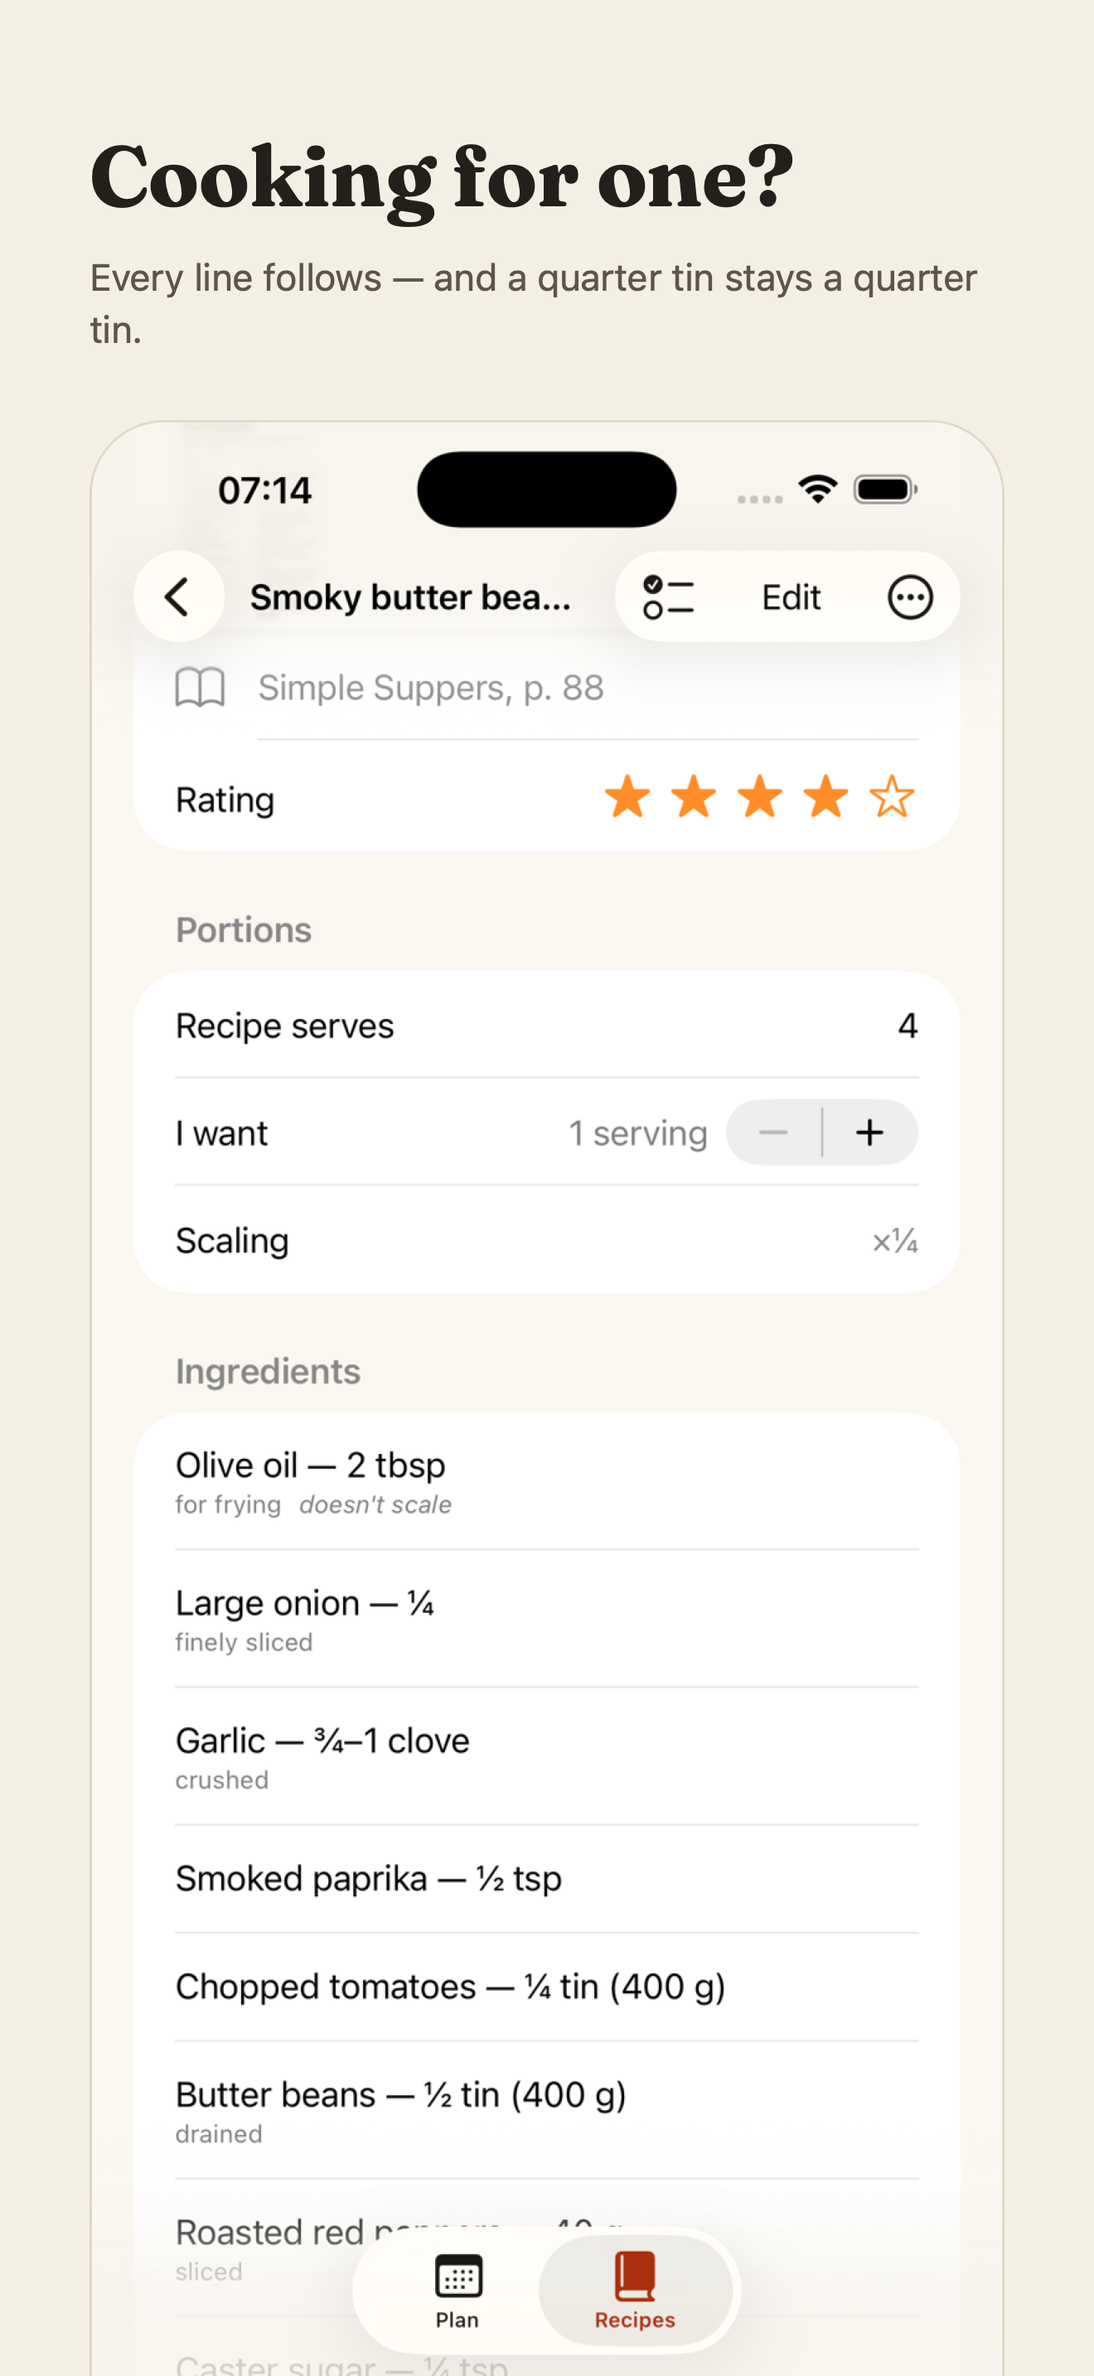
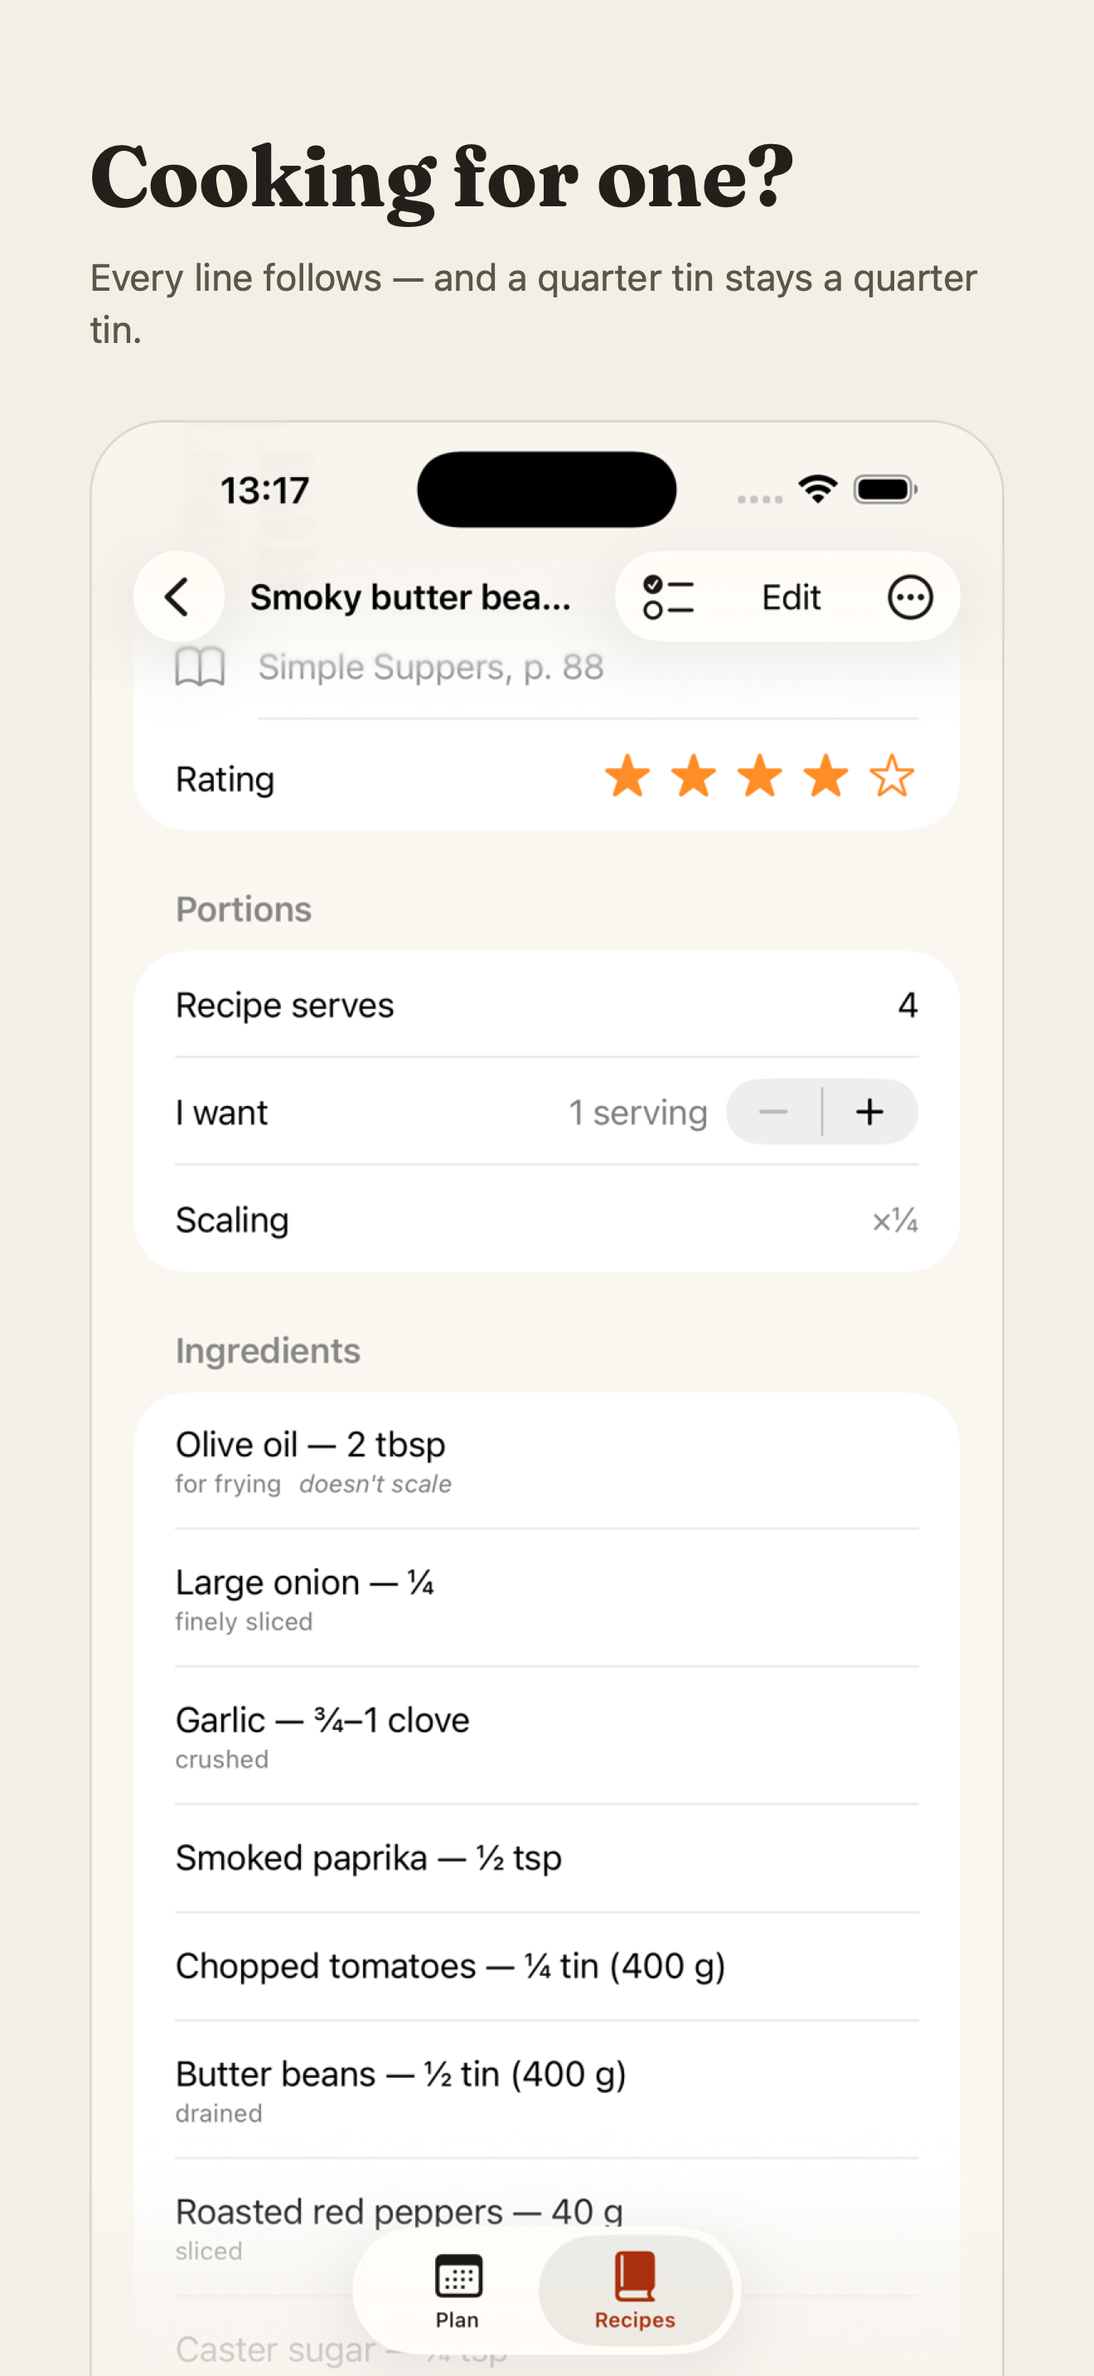
docs: the listing says photograph the page, and a nomination that fits
The description still opened "Photograph the ingredient list on the page",
which the app stopped saying this morning.

The featuring nomination could not have been submitted at all. Apple's form
is a 60-character name, a 1,000-character description and a 500-character
Helpful Details box; this held about 3,150 characters of essays under
headings Apple does not have. Rewritten to fit, with the structured fields
tabulated, and appstore-counts.py now counts them — it splits on ### as well
as ##, so nothing in the nomination goes unchecked again. Apple's documented
lead time is three weeks, not the two this claimed.

All nine screenshots reshot on the iPhone 17 Pro Max and iPad Pro 13-inch.
Frame 1 was stale twice over: the old free-scan limits and the capture help
text reversed today. Three frames were recomposed to show the claim rather
than sit above it — the extracted rows, the quarter tin, the merged lines.

Still missing a household frame; a simulator cannot host one.

diff --git a/docs/appstore-counts.py b/docs/appstore-counts.py
@@ -21,6 +21,11 @@ LIMITS = {
     "Keywords": 100,
     "Description": 4000,
     "What's New": 4000,
+    # The featuring nomination's own fields, which are `###` headings under "## Featuring nomination".
+    # Apple's limits, from the nominations template (checked 2026-09-29).
+    "Nomination name": 60,
+    "Nomination description": 1000,
+    "Helpful details": 500,
 }
 
 # The in-app purchase table's columns, by header, -> limit. **Read from the document**, not copied here: these
@@ -34,8 +39,13 @@ IAP_COLUMNS = {
 
 
 def fields(text):
-    """Yield (heading, first fenced block) for each '## Heading — N max' section."""
-    sections = re.split(r"^## ", text, flags=re.MULTILINE)[1:]
+    """Yield (heading, first fenced block) for each '## Heading — N max' section.
+
+    Third-level headings count too: the nomination's fields sit under "## Featuring nomination", and its
+    description used to be three essays totalling roughly twice what Apple's form accepts — unnoticed because
+    nothing counted it.
+    """
+    sections = re.split(r"^#{2,3} ", text, flags=re.MULTILINE)[1:]
     for section in sections:
         heading = section.split("\n", 1)[0]
         name = heading.split(" — ")[0].strip()

diff --git a/docs/APPSTORE.md b/docs/APPSTORE.md
@@ -60,7 +60,7 @@ recipe,ingredients,grocery,shopping,meal,planner,portions,servings,family,househ
 ```
 You already own the cookbooks. Page & Plate is for cooking from them.
 
-Photograph the ingredient list on the page. The app reads it — quantities, units, tins, ranges, "serves 4" — and shows you what it found so you can correct anything before it is saved. The method stays in the book, where it belongs; Page & Plate notes the book and page so you can find your way back.
+Photograph the page. The app reads it — quantities, units, tins, ranges, "serves 4" — and shows you what it found so you can correct anything before it is saved. The method stays in the book, where it belongs; Page & Plate notes the book and page so you can find your way back.
 
 SCALED PROPERLY
 
@@ -127,49 +127,75 @@ the existing StoreKit configuration.
 
 ## Featuring nomination
 
-Submitted in App Store Connect under **App Launch**. Minimum two weeks' lead, but the editorial team plans
-collections eight to twelve weeks out, so submit **about three months before the target date**. Needs an
-Account Holder, Admin, App Manager or Marketing role.
+Submitted in App Store Connect under nomination type **App Launch**. Needs an Account Holder, Admin, App
+Manager or Marketing role.
 
-### What's launching
+**Checked against Apple's own documentation 2026-09-29, and the shape of this section changed as a result.**
+It previously held three long essays under invented headings; the real form is a 60-character name, a
+1,000-character description and a 500-character "Helpful Details" box, plus structured fields. The old copy
+ran to about 3,150 characters across fields that take 1,500, so it could not have been pasted in. Apple
+documents a **minimum lead time of three weeks** and asks for plans "as early as possible"; the "eight to
+twelve weeks" figure this section used to quote is not in Apple's documentation and is not repeated here.
+`python3 docs/appstore-counts.py` now counts these three fields too.
+
+### Nomination name — 60 max
+
+Only to recognise the nomination later; Apple's editorial team does not read it as a pitch.
+
+```
+Page & Plate 1.0 launch — cookbook scanning
+```
+
+### Nomination description — 1000 max
+
+The pitch. Leads with what the app does in one line, because an editor reads a great many of these.
 
 ```
 Page & Plate turns a photographed cookbook page into a scaled ingredient list and a week's shopping.
 
-Point it at the ingredient list on the page. It reads the quantities, units, tin sizes, ranges and the stated yield, and hands them back for a quick check before saving. Set the portions you actually want and every quantity follows — and it follows the way a cook thinks rather than the way a calculator does. A quarter of a 400g tin is shown as a quarter of a tin, because that is what you do in the kitchen. Half a teaspoon is half a teaspoon. Nothing is silently converted into units the book did not use.
+Photograph the page. It reads the quantities, units, tin sizes, ranges and the stated yield, and hands them back to check before saving. Set the portions you want and every quantity follows — rounded the way a cook rounds, not the way a calculator does. A quarter of a 400g tin stays a quarter of a tin. Half a teaspoon stays half a teaspoon. Nothing is converted into units the book never used.
 
-From there, recipes go onto the days of a week, each meal at its own number of portions, and the whole week exports to Apple Reminders as one shopping list. Lines are only combined when they genuinely match — same ingredient, same unit, same package size — because a wrong merge sends you home without an onion.
+Recipes go onto the days of a week, each meal at its own portions, and the whole week exports to Apple Reminders as one shopping list. Lines are combined only when they genuinely match — same ingredient, same unit, same tin size — because a wrong merge sends you home without an onion.
+
+A household shares one week and cooks from each other's books, carried over the members' own iCloud accounts. No accounts of ours, no sign-in, no library of other people's recipes.
 ```
 
-### Why it is worth a look
+### Helpful details — 500 max
+
+Apple asks here for what makes the app stand out: the unique approach, or what went on behind it.
 
 ```
-It is built around one deliberate constraint: the model reads the page, and never does arithmetic. Every scaling, rounding and formatting decision happens in tested code, pinned to a suite of hand-checked fixtures. That is an unusual line to draw in an app that leans on a model, and it is the reason the numbers can be trusted — the interesting failure mode in this category is not a misread word, it is a confidently wrong quantity.
+One constraint shapes the whole app: the model reads the page and never does arithmetic. Every scaling, rounding and formatting decision happens in tested code, pinned to hand-checked fixtures. That is an unusual line to draw in an app built on a model, and it is why the numbers can be trusted — the interesting failure is not a misread word, it is a confidently wrong quantity.
 
-The design is drawn rather than assembled: a paper-and-ink palette, a serif display face, and a mark of a plate holding an open book, drawn in code so it stays sharp at every size. It is an app about printed books and it is meant to feel like one.
-
-It is also deliberately small. No account, no sign-in, no library of other people's recipes to scroll. Your photographs and your recipes stay on your device, and the app never reads or changes the reminders you already have — it only adds to them.
+Built by one person for his own kitchen. The mark, a plate holding an open book, is drawn in code.
 ```
 
-### The story
+### The structured fields
 
-```
-I built this for my own kitchen. I cook from books rather than from the internet, and almost every Sunday I was doing the same tedious thing: working out what two thirds of a recipe for four looks like, writing the answers in the margin, and then copying a shopping list out by hand for whatever I had planned that week. The maths is not hard, it is just relentless, and it is exactly the kind of work a phone should absorb.
-
-What I did not want was another app that wants my recipes. The books are the point. The app's job is to get out of the way between the page and the shop.
-```
+| Field | Value |
+|---|---|
+| Nomination type | App Launch (cannot be edited after submission) |
+| Related apps | Page & Plate's Apple ID, from App Store Connect |
+| Platforms | iOS (iPhone), iOS (iPad) |
+| Publish date | The release date, at least three weeks out |
+| Relevant countries or regions | GBR at minimum — widen it if the release does |
+| Localization | en-GB |
+| Launching in certain markets first? | Answer honestly; a UK-only start is a "Yes" |
+| New In-App Event? | No |
+| Pre-order? | No |
+| Supplemental materials | https://leonparsons.github.io/Page-and-Plate/ (up to 5 URLs) |
 
 ### Accessibility — verify before claiming
 
-Do not paste this section until it is checked on a device. What is true today:
+Do not add accessibility to **Helpful details** until it is checked on a device. What is true today:
 
 - All text uses Dynamic Type; the display face scales with it via `relativeTo:`.
 - Every brand colour was chosen against measured contrast ratios rather than by eye — body and accent text
   clear 4.5:1 in both light and dark. The previous accent failed at 3.2:1, which is what prompted the change.
 - Controls are standard SwiftUI, so VoiceOver and Voice Control get the system behaviour.
+- Large type was walked on a real iPad at the largest accessibility size (2026-09-23) and nothing broke.
 
-**Not yet verified:** a real VoiceOver pass, and layout at the largest accessibility text sizes. Claim neither
-until you have sat with the phone and checked.
+**Not yet verified:** a deliberate VoiceOver session. Claim it to Apple only after sitting with the phone.
 
 ---
 
@@ -190,7 +216,12 @@ until you have sat with the phone and checked.
    Pushed and Pages turned on 2026-09-28; all three URLs verified returning 200 the same day.
    **One thing left:** `legal/index.html` links to both pages but carries no contact route of its own, and it
    is also the **Support URL**. A reviewer landing there should see the email without clicking through.
-5. ~~Screenshots.~~ Nine frames shot 2026-09-23; see `marketing/README.md` for what is still weak.
+5. ~~Screenshots.~~ Nine frames, **reshot 2026-09-29** against the current copy and the current limits — the
+   2026-09-23 set showed "17 of 20 free scans left" and the capture help text that was reversed the same day.
+   Three of them now prove their headline in the picture rather than near it. See `marketing/README.md`.
+   **Still missing: a household frame**, which the listing now leads with. It cannot be shot on a simulator —
+   hosting needs an iCloud account and a subscription — so it has to come from a device already in a
+   household, alongside item 10's review notes.
 6. ~~A large-type pass.~~ Done 2026-09-23: Leon walked the recipe screen, export sheet, Settings, Review
    and the paywall on an iPad at the largest accessibility text size, and nothing broke. Code-side fixes
    landed the same day (see `docs/DECISIONS.md`).

diff --git a/marketing/README.md b/marketing/README.md
@@ -39,11 +39,45 @@ python3 marketing/tools/makeipad.py      # iPad
 Captures come from `xcrun simctl io <device> screenshot`, which writes at native resolution — that is what
 guarantees Apple's accepted dimensions rather than resizing afterwards.
 
+All nine were **reshot 2026-09-29**, on the iPhone 17 Pro Max and iPad Pro 13-inch (M5) simulators, against
+the copy as it stands today. The previous set was shot 2026-09-23 and had gone stale in two ways: frame 1 read
+"17 of 20 free scans left" from the pre-2026-09-23 limits, and it carried the capture help text that was
+reversed on 2026-09-29 (see `docs/DECISIONS.md`).
+
+**Three frames got better content rather than just a refresh**, because the old captures showed the top of a
+screen where the claim is proved further down:
+
+- **Frame 2 ("It reads the list for you")** now shows the extracted ingredient rows themselves — `1 tin
+  (400 g)`, `1½ tsp`, and `Feta — 200 g` read off `200g/7oz`, each with the printed line beneath it.
+- **Frame 3 ("a quarter tin stays a quarter tin")** now has `Chopped tomatoes — ¼ tin (400 g)` and
+  `Olive oil — 2 tbsp · doesn't scale` in shot, under the ×¼ scaling.
+- **Frame 5 / iPad 3 ("one shop")** show the real merges: `Butter beans — 5 tins (400 g)` across two recipes,
+  `Garlic — 9½–11 cloves` across three, and olive oil marked `staple` and unticked.
+
+The week is Monday 4 portions, Wednesday 2, Thursday 6, so "each meal at its own portions" is visible rather
+than asserted.
+
 ## Before these go to App Store Connect
 
-1. **The free-scan count.** Frame 1 reads "17 of 20 free scans left", from the limits as they were before
-   2026-09-23. The trial is now 7 for the life of the device (`ScanAllowance.trialScans`), so the frame has to
-   be reshot — and a build with scans already spent will say "No free scans left" instead, which is a weaker
-   frame. Shoot it on a device with 2 or 3 scans used.
-2. The iPad export sheet sits as a small form sheet over the plan and does not use the width well. It is
-   honest, but it is the weakest of the nine.
+1. **There is still no household frame**, and the listing now leads with the household. A simulator cannot
+   produce one: hosting needs an iCloud account and a subscription, and the Simulator has neither. This one
+   has to be shot on a device that is already in a household — see `docs/APPSTORE.md`.
+2. The iPad export sheet sits as a form sheet over the plan and does not use the width well. It is honest,
+   and it does at least show the week behind the list, but it is the weakest of the nine.
+
+## Reshooting
+
+The three cookbook pages go into the simulator's photo library first (`html2png.swift`, then
+`simctl addmedia`). To put the same library on the iPad without scanning it again — which costs scans and
+real money — copy the app's data container across rather than repeating the flow by hand:
+
+```bash
+SRC=$(xcrun simctl get_app_container <iphone-udid> com.leonparsons.RecipeBasket data)
+DST=$(xcrun simctl get_app_container <ipad-udid>   com.leonparsons.RecipeBasket data)
+cp -R "$SRC/Library/Application Support" "$DST/Library/Application Support"
+cp -R "$SRC/Documents" "$DST/Documents"
+```
+
+Install and launch the app on the destination once first, so the container exists, and terminate it before
+copying. The default Reminders list does not travel (the list id is per device), so pick it again in the
+export sheet.

diff --git a/docs/DECISIONS.md b/docs/DECISIONS.md
@@ -955,3 +955,40 @@ and the "page photos are never shared" line, and Staples loses the exact-match r
 lives in the App Store description and the privacy policy, which is where someone deciding goes; a Settings
 footer is read by someone who has already decided. The recipes list is now titled **My recipes**, which the
 household made meaningful — it queries the device owner's own library, never the household's catalogue.
+
+### 2026-09-29 · The listing copy, the nomination, and nine reshot frames
+
+**The description told people to photograph the ingredient list**, which the app stopped saying earlier the
+same day. It now opens "Photograph the page." — four characters shorter than the sentence it replaces, so the
+count check was never in danger. The featuring nomination said "Point it at the ingredient list on the page"
+and has been rewritten from scratch for a different reason.
+
+**The featuring nomination could not have been submitted.** Checked against Apple's own documentation
+(rule 10, and this is exactly the case it exists for): the form is a **60-character name, a 1,000-character
+description and a 500-character "Helpful Details" box**, plus structured fields for dates, platforms, regions,
+localizations and up to five supplemental URLs. This section held three long essays under headings Apple does
+not have — about **3,150 characters for fields that take 1,500**. It is now three fields that fit, with the
+structured ones tabulated, and `appstore-counts.py` counts them: `fields()` splits on `##` **and** `###`, so
+the nomination is checked like every other length-limited field. Nothing counted them before, which is why the
+drift was invisible.
+
+Apple also documents a **minimum three-week lead time** and asks for plans as early as possible. This section
+claimed "minimum two weeks" and "eight to twelve weeks out"; the second figure is nowhere in Apple's
+documentation and is not repeated.
+
+**All nine screenshots reshot** (iPhone 17 Pro Max, iPad Pro 13-inch M5). Frame 1 was already known to be stale
+— "17 of 20 free scans left" from the pre-2026-09-23 limits — and the capture help text reversed today made it
+wrong twice over. Three frames were *recomposed* rather than refreshed, because the old captures showed the top
+of a screen while the claim was proved further down: the extraction frame now shows the extracted rows
+(`1 tin (400 g)`, `1½ tsp`, `Feta — 200 g` read off `200g/7oz`), the scaling frame shows `¼ tin (400 g)` under
+the ×¼, and the shopping frames show the real merges (`Butter beans — 5 tins (400 g)`, `Garlic — 9½–11 cloves`,
+olive oil marked `staple` and unticked). A screenshot that asserts its headline is weaker than one that
+demonstrates it, and this set had been assembled the first way.
+
+**There is still no household frame, and the listing leads with the household.** A simulator cannot produce
+one: hosting needs an iCloud account and a subscription, and the Simulator has neither, so this is now a
+release-checklist item rather than something that can be done here.
+
+**The iPad library was seeded by copying the app's data container** rather than scanning three pages again —
+faster, free, and it guarantees the two devices show the same week. Written down in `marketing/README.md`,
+because the obvious alternative costs scans and real money each time.
